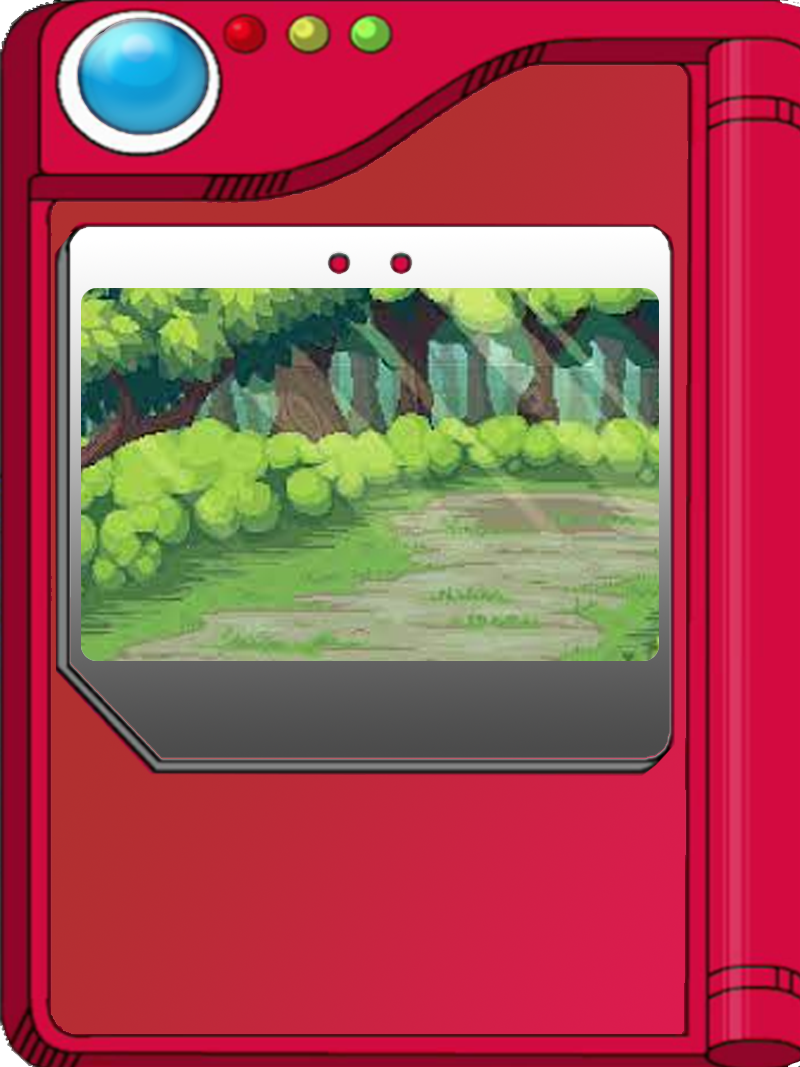
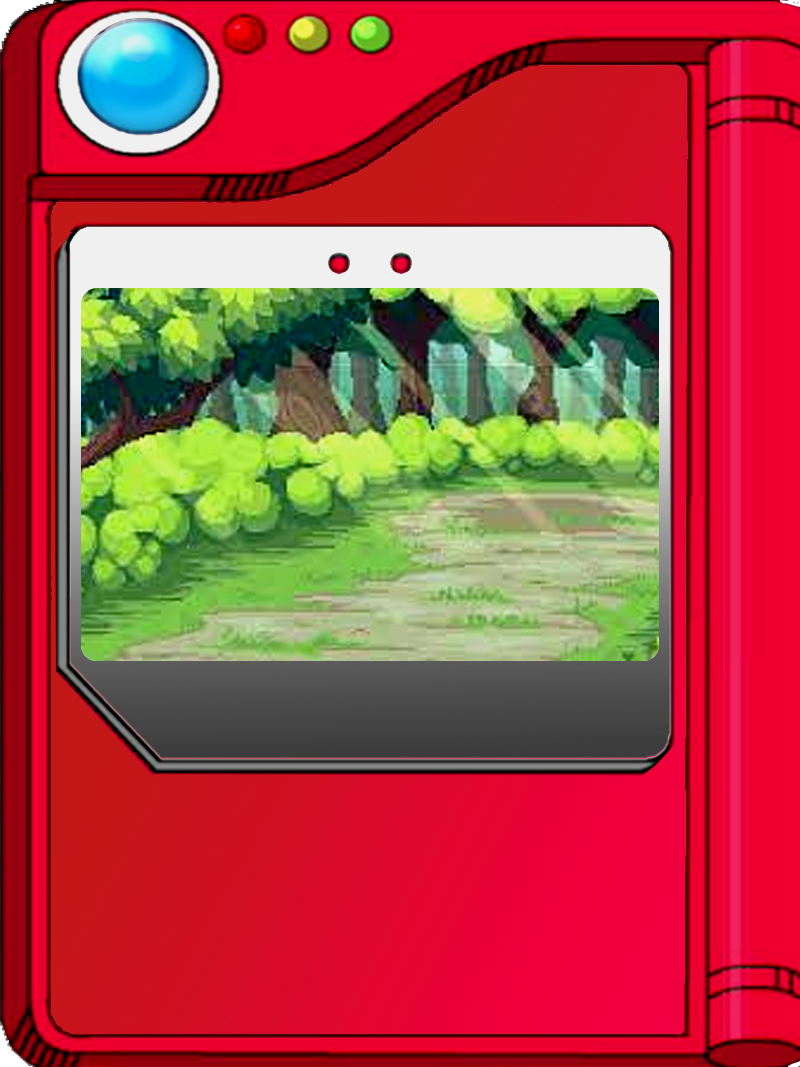
Ajuste na tonalização da pokedéx

diff --git a/src/App.css b/src/App.css
@@ -5,7 +5,7 @@
 }
 
 body {
-    --bg-color: rgba(255, 255, 255, .75);
+    --bg-color: rgba(38, 33, 33, 0.75);
     font-family: Poppins, sans-serif;
     background-image: linear-gradient(0deg, var(--bg-color), var(--bg-color)), url('../public/img/bg1.jpg');
 }

diff --git a/src/components/Heading/Heading.css b/src/components/Heading/Heading.css
@@ -3,7 +3,7 @@
     text-align: center;
     font-size: 3rem;
     margin: 1rem 0 4rem;
-    color: #444;
+    color: #e3d237;
     position: relative;
 }
 
